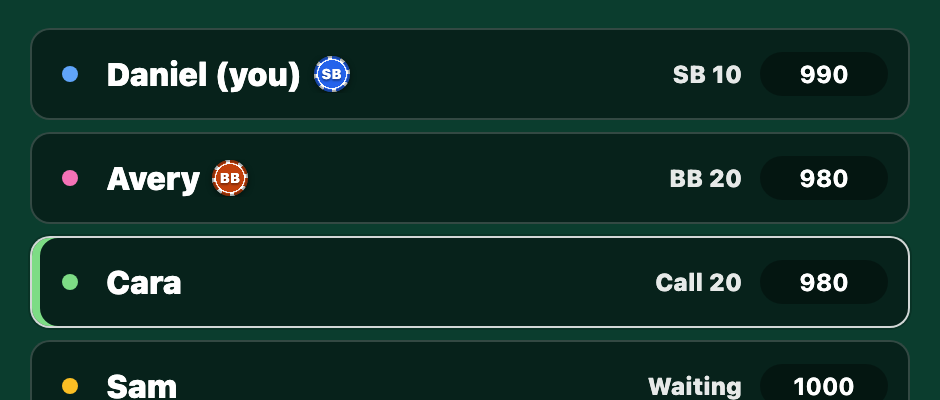
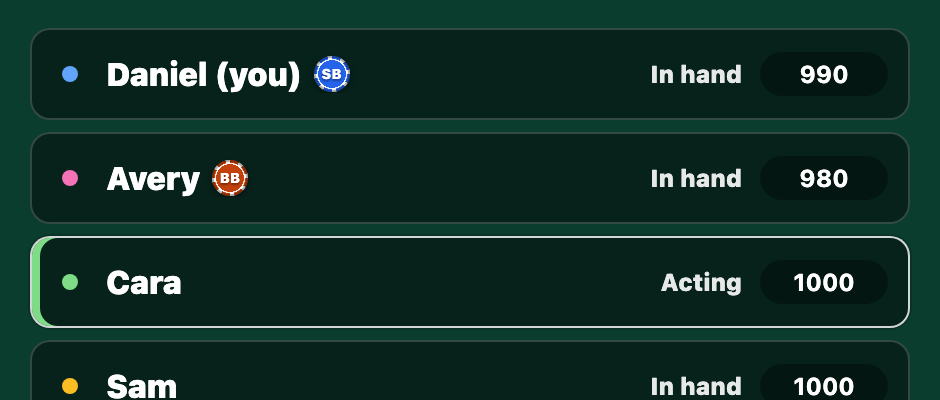
Drop SB/BB blind posts from the table action column
The SB/BB chips now mark the blinds for the whole hand, so the action
column no longer shows "SB 10" / "BB 20" for the blind posts. Those
seats show their status ("In hand" / "Acting") until they act.

diff --git a/public/app.js b/public/app.js
@@ -1087,13 +1087,15 @@ function compactPlayerAction(entry, player) {
     : raw.replace(/\.$/, "");
   const amount = (value) => formatAmount(Number(value), Math.round(Number(value) * (state?.chipValueCents || 0)));
   return withoutName
-    .replace(/^Posts small blind\s+(\d+)/i, (_, value) => `SB ${amount(value)}`)
-    .replace(/^Posts big blind\s+(\d+)/i, (_, value) => `BB ${amount(value)}`)
     .replace(/^Calls\s+(\d+)/i, (_, value) => `call ${amount(value)}`)
     .replace(/^Checks$/i, "check")
     .replace(/^Folds$/i, "fold")
     .replace(/^Raises to\s+(\d+)/i, (_, value) => `raise ${amount(value)}`)
     .replace(/^Wins\s+(\d+)/i, (_, value) => `+${amount(value)}`);
+}
+
+function isBlindPost(entry) {
+  return /^Posts (small|big) blind\b/i.test(entry?.action || "");
 }
 
 function actionTokenClass(entry, player) {
@@ -1319,6 +1321,8 @@ function renderActionFeed(newEntryId = "") {
   const activePlayer = currentTurnPlayer();
   const latestByPlayer = new Map();
   entries.forEach((entry) => {
+    // Blind posts aren't actions; the SB/BB chips mark those seats for the whole hand.
+    if (isBlindPost(entry)) return;
     const player = playerForAction(entry);
     if (player) latestByPlayer.set(player.id, entry);
   });
